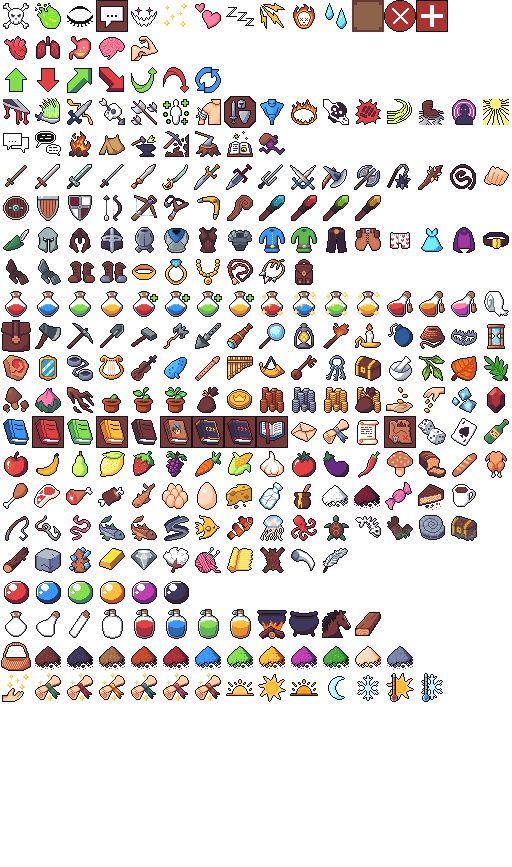
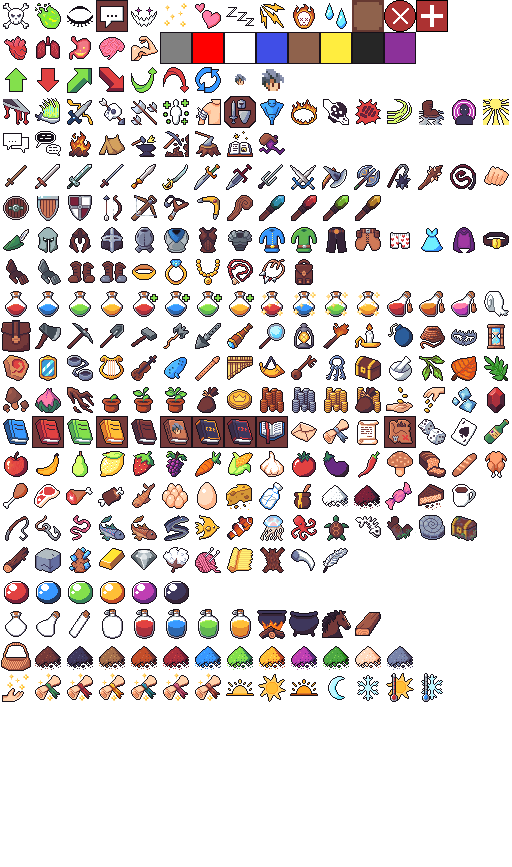
world map added, equip bug fixed

Changed region(s): [[0.3125, 0.0311, 0.8125, 0.1246]]

diff --git a/js/WorldMap.js b/js/WorldMap.js
@@ -1,0 +1,128 @@
+export default class WorldMap extends Phaser.Scene{
+
+    constructor(){
+        super("WorldMap");
+    }
+
+    create(data) {
+        this.gameState = data.gameState;
+        this.inventoryVisible = data.inventoryVisible;
+        this.equipmentVisible = data.equipmentVisible;
+        this.messageBoxVisible = data.messageBoxVisible;
+        this.talentsVisible = data.talentsVisible;
+        this.input.keyboard.on('keydown-M', this.closeMap, this);
+        this.input.keyboard.on('keydown-ESC', this.closeMap, this);
+        this.createBackground();
+        this.createExitButton();
+        this.createMapSquares();
+        this.playerVisibilityTimer = this.time.addEvent({
+            delay: 600,
+            callback: this.togglePlayerVisibility,
+            callbackScope: this,
+            loop: true
+        });
+    }
+
+    createBackground(){
+        this.add.sprite(this.game.config.width / 2, this.game.config.height / 2, 'brownbackground').setScale(7, 5.5);
+        this.add.text(400, 120,'Kingdom of Razion', { font: '24px Arial', fill: '#000', resolution: 2 }).setOrigin(0.5, 0.5);
+    }
+
+    //21 = grey, 22 = red, 23 = white, 24 = blue, 25 = brown, 26 = yellow, 27 = black, 28 = purple
+    createMapSquares() {
+        const colors = [
+            21, 21, 21, 22, 22, 23, 23, 23,
+            21, 21, 21, 22, 22, 23, 23, 23,
+            21, 21, 22, 22, 23, 23, 26, 26,
+            24, 24, 24, 22, 23, 26, 26, 26,
+            24, 24, 24, 25, 25, 26, 26, 26,
+            24, 24, 24, 25, 27, 26, 28, 28,
+            25, 25, 25, 25, 27, 28, 28, 28,
+            27, 27, 27, 27, 27, 28, 28, 28
+        ];
+        const names = {21: 'Jakkeen Fields', 22: 'Volmor Gorge', 23: 'Vesp Nimbus', 24: 'Molak Lake', 25: 'Hormick Plateau', 26: 'Zeah\'s Breathe', 27: 'Zion\'s Chasm', 28: 'Razoul\'s Schism'};
+        const types = {21: 'Normal', 22: 'Fire', 23: 'Air', 24: 'Water', 25: 'Earth', 26: 'Holy', 27: 'Dark', 28: 'Chaos'};
+        const spriteSize = 32
+        const scale = 1.5
+        const squareSize = spriteSize*scale;
+        const startX = 220;
+        const startY = 160;
+
+        this.add.text(120, 240, 'Notes', { font: '24px Arial', fill: '#000', resolution: 2 }).setDepth(10).setOrigin(0.5);
+        this.add.sprite(120, 330, 'items', 11).setDepth(2).setScale(4, 8).setOrigin(0.5);
+
+        let regionText = this.add.text(120, 280, '', { font: '16px Arial', fill: '#000', resolution: 2 }).setDepth(3).setVisible(false).setOrigin(0.5);
+        let nameText = this.add.text(120, 300, '', { font: '16px Arial', fill: '#000', resolution: 2 }).setDepth(3).setVisible(false).setOrigin(0.5);
+        let typeText = this.add.text(120, 320, '', { font: '16px Arial', fill: '#000', resolution: 2 }).setDepth(3).setVisible(false).setOrigin(0.5);
+
+        const currentMap = this.gameState.getCurrentMap();
+        const currentMapNumber = parseInt(currentMap.substring(3)) - 1; 
+        const playerRow = Math.floor(currentMapNumber / 8);
+        const playerCol = currentMapNumber % 8;
+        const playerX = startX + playerCol * squareSize;
+        const playerY = startY + playerRow * squareSize;
+        this.add.text(120,140, `Current Region: ${currentMapNumber + 1}`, {font: '16px Arial', fill: '#000', resolution: 2}).setOrigin(0.5,0.5);
+        this.playerSprite = this.add.sprite(playerX, playerY, 'items', 40).setDepth(2).setScale(1.25).setOrigin(0.5).setDepth(4);
+
+        for (let row = 0; row < 8; row++) {
+            for (let col = 0; col < 8; col++) {
+                const spriteIndex = colors[row * 8 + col];
+                const mapNumber = row * 8 + col + 1;
+                const type = types[spriteIndex];
+                const name = names[spriteIndex];
+                const x = startX + col * squareSize;
+                const y = startY + row * squareSize;
+                const sprite = this.add.sprite(x, y, 'items', spriteIndex).setScale(scale).setInteractive();
+    
+                sprite.on('pointerover', () => {
+                    sprite.setTint(0xDEDEDE);
+                    regionText.setText(`Region ${mapNumber}`);
+                    typeText.setText(`${type}`);
+                    nameText.setText(`${name}`);
+                    regionText.setVisible(true);
+                    typeText.setVisible(true);
+                    nameText.setVisible(true);
+                });
+    
+                sprite.on('pointerout', () => {
+                    sprite.clearTint();
+                    regionText.setVisible(false);
+                    typeText.setVisible(false);
+                    nameText.setVisible(false);
+                });
+            }
+        }
+    }
+
+    togglePlayerVisibility() {
+        this.playerSprite.setVisible(!this.playerSprite.visible);
+    }
+    
+
+    createExitButton() {
+        let exitButton = this.add.sprite(40, 100, 'items', 12).setScale(0.65).setDepth(200).setInteractive();
+        exitButton.on('pointerover', () => {exitButton.setTint(0x969696)}); 
+        exitButton.on('pointerout', () => {exitButton.clearTint()});
+        exitButton.on('pointerdown', () => this.closeMap());
+    }
+
+    closeMap() {
+        this.scene.stop();
+        this.playerVisibilityTimer.destroy();
+        let inventoryDisplay = this.scene.get('InventoryDisplay');
+        let equipmentDisplay = this.scene.get('EquipmentDisplay');
+        let messageBox = this.scene.get('MessageBox');
+        let talents = this.scene.get('Talents');
+        this.scene.resume(this.gameState.getCurrentMap());
+        this.scene.resume('InventoryDisplay');
+        this.scene.resume('EquipmentDisplay');
+        this.scene.resume('MessageBox');
+        this.scene.resume('Talents');
+    
+        if (this.inventoryVisible) {inventoryDisplay.toggleVisibility()}
+        if (this.equipmentVisible) {equipmentDisplay.toggleVisibility()}
+        if (this.messageBoxVisible) {messageBox.toggleVisibility()}
+        if (this.talentsVisible) {talents.toggleVisibility()}
+    }
+
+}

diff --git a/js/Journal.js b/js/Journal.js
@@ -15,11 +15,11 @@ export default class Journal extends Phaser.Scene{
         this.createBackground();
         this.createExitButton();
         this.createQuestButton();
-        this.createStatsButton();
+        this.createAchievementsButton();
         this.createQuestData();
-        this.createStatsData();
+        this.createAchievementsData();
         this.questTexts.forEach(text => text.setVisible(false));
-        this.statsTexts.forEach(text => text.setVisible(false));
+        this.achievementsTexts.forEach(text => text.setVisible(false));
     }
 
     createBackground(){
@@ -39,13 +39,13 @@ export default class Journal extends Phaser.Scene{
         ];
     }
 
-    createStatsData() {
+    createAchievementsData() {
         this.currentLevel = this.gameState.getPlayerLevel();
         this.totalXPGained = this.gameState.getPlayerTotalXP();
         this.monstersKilled = this.gameState.getPlayerMonsterKills();
         this.bossesSlain = '0'
         this.timePlayed = `69 minutes`
-        this.statsTexts = [
+        this.achievementsTexts = [
             this.add.text(230, 230, `Level: ${this.currentLevel}`, { font: '16px Arial', fill: '#000', resolution: 2 }),
             this.add.text(230, 270, `Total XP Gained: ${this.totalXPGained}`, { font: '16px Arial', fill: '#000', resolution: 2 }),
             this.add.text(230, 310, `Monsters Killed: ${this.monstersKilled}`, { font: '16px Arial', fill: '#000', resolution: 2 }),
@@ -64,10 +64,10 @@ export default class Journal extends Phaser.Scene{
         this.add.container(0, 0, [buttonSprite, buttonText]);
     }
     
-    createStatsButton() {
+    createAchievementsButton() {
         const buttonSprite = this.add.sprite(140, 260, 'items', 11).setScale(3.0, 1).setInteractive();
-        buttonSprite.on('pointerover', () => {buttonSprite.setTint(0x9e733f);});
-        buttonSprite.on('pointerout', () => {buttonSprite.clearTint();});
+        buttonSprite.on('pointerover', () => {buttonSprite.setTint(0x9e733f)});
+        buttonSprite.on('pointerout', () => {buttonSprite.clearTint()});
         buttonSprite.on('pointerdown', () => {this.toggleTextsVisibility(false)});
         
         const buttonText = this.add.text(140, 260, 'Achievements', { font: '14px Arial', fill: '#000', resolution: 2 }).setOrigin(0.5, 0.5);
@@ -76,7 +76,7 @@ export default class Journal extends Phaser.Scene{
 
     toggleTextsVisibility(showQuests) {
         this.questTexts.forEach(text => text.setVisible(showQuests));
-        this.statsTexts.forEach(text => text.setVisible(!showQuests));
+        this.achievementsTexts.forEach(text => text.setVisible(!showQuests));
     }
 
     createExitButton() {

diff --git a/js/Configs.js b/js/Configs.js
@@ -13,6 +13,7 @@ import Talents from "./Talents.js"
 import LoadScene from "./LoadScene.js";
 import OptionsScene from "./OptionsScene.js"
 import BootScene from "./BootScene.js"
+import WorldMap from "./WorldMap.js"
 
 const gameState = new GameState();
 const config = {
@@ -21,7 +22,7 @@ const config = {
   backgroundColor: '#000',
   type: Phaser.AUTO,
   parent: 'configs',
-  scene:[BootScene, new StartScreen(gameState), new Map1(gameState), new Map2(gameState), LootDisplay, EquipmentDisplay, InventoryDisplay, PlayerVisualScene, DeathScene, Menu, Journal, MessageBox, Talents, OptionsScene, new LoadScene(gameState)],
+  scene:[BootScene, new StartScreen(gameState), new Map1(gameState), new Map2(gameState), LootDisplay, EquipmentDisplay, InventoryDisplay, PlayerVisualScene, DeathScene, Menu, Journal, WorldMap, MessageBox, Talents, OptionsScene, new LoadScene(gameState)],
   scale: {zoom:1},
   physics: {default: 'matter', matter: {debug:true, gravity:{y:0}}},
   plugins: {scene:[{plugin: PhaserMatterCollisionPlugin.default, key: 'matterCollision', mapping: 'matterCollision'}]}

diff --git a/js/EquipmentData.js b/js/EquipmentData.js
@@ -22,9 +22,9 @@ export default class EquipmentData extends Phaser.Events.EventEmitter {
         let equipItems = this.gameState.getEquipItems();
         switch (itemType) {
             case 'weapon':
-                return equipItems[3] === null;
+                return equipItems[5] === null;
             case 'offhand':
-                return equipItems[4] === null;
+                return equipItems[6] === null;
             case 'helm':
                 return equipItems[0] === null;
             default:

diff --git a/js/Maps.js b/js/Maps.js
@@ -62,6 +62,7 @@ export default class Map extends Phaser.Scene {
 
         this.handleKeyPress('Menu', 'keydown-ESC');
         this.handleKeyPress('Journal', 'keydown-J');
+        this.handleKeyPress('WorldMap', 'keydown-M');
 
         let camera = this.cameras.main;
         camera.zoom = 1.4;
